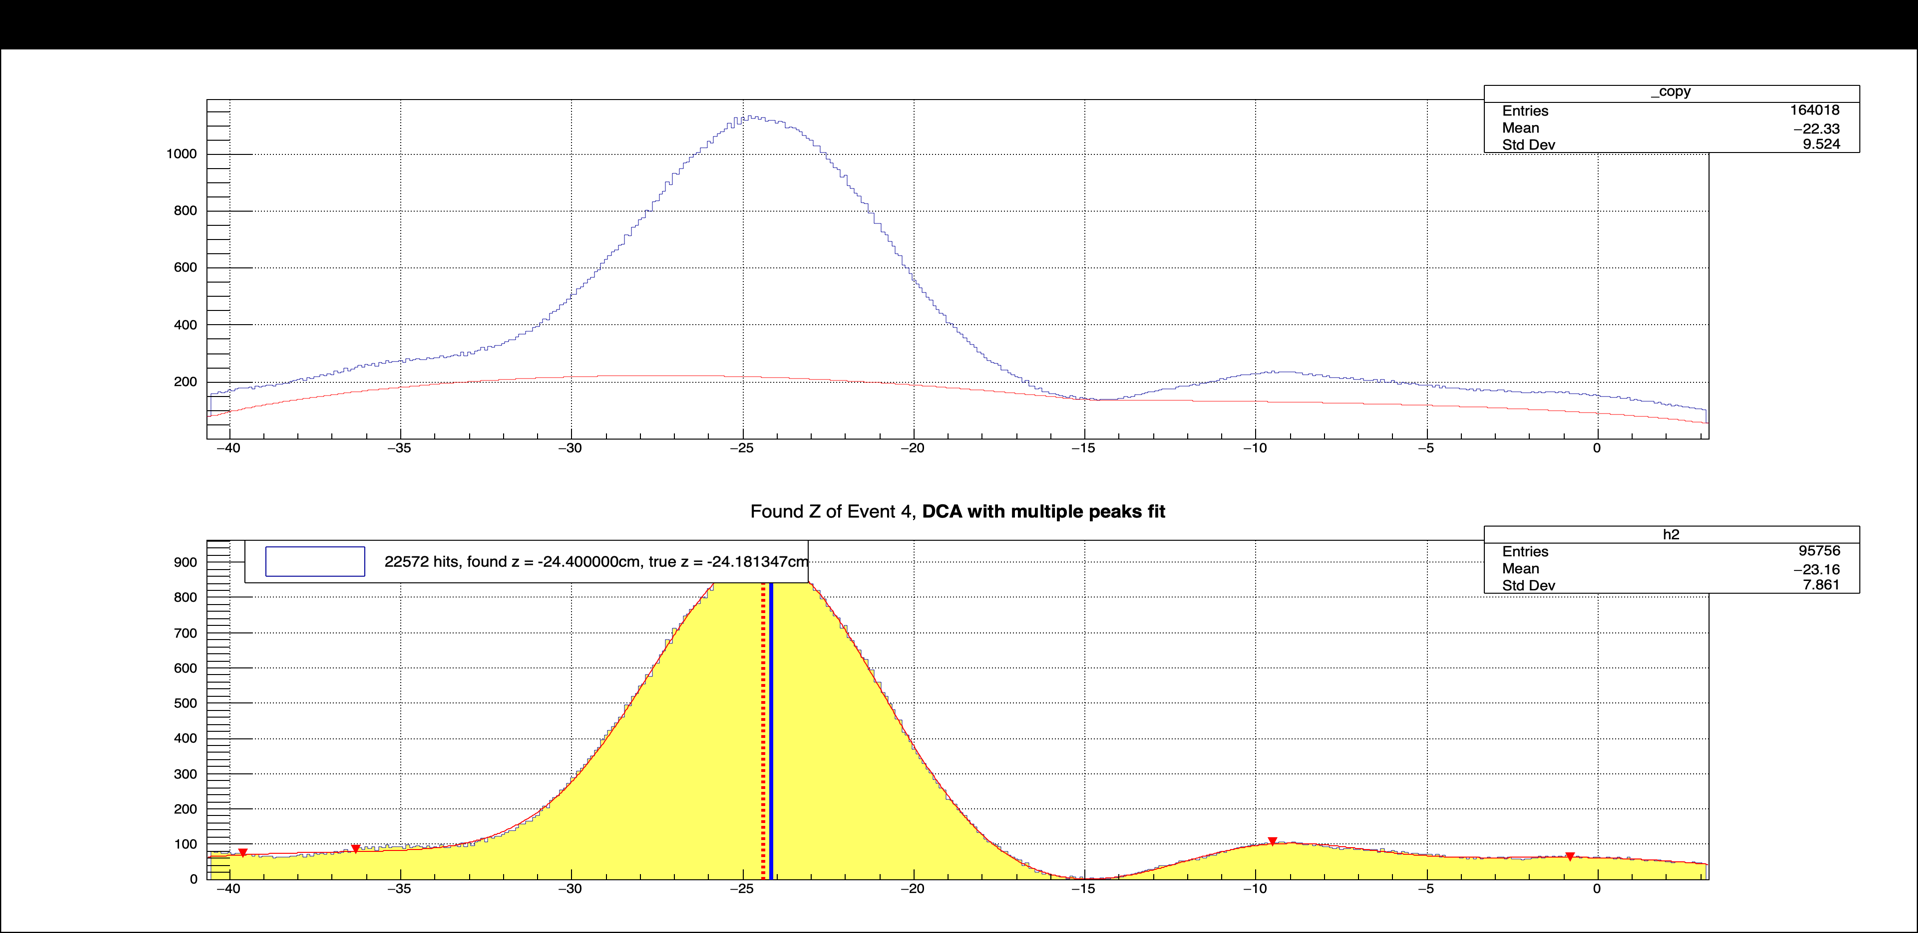
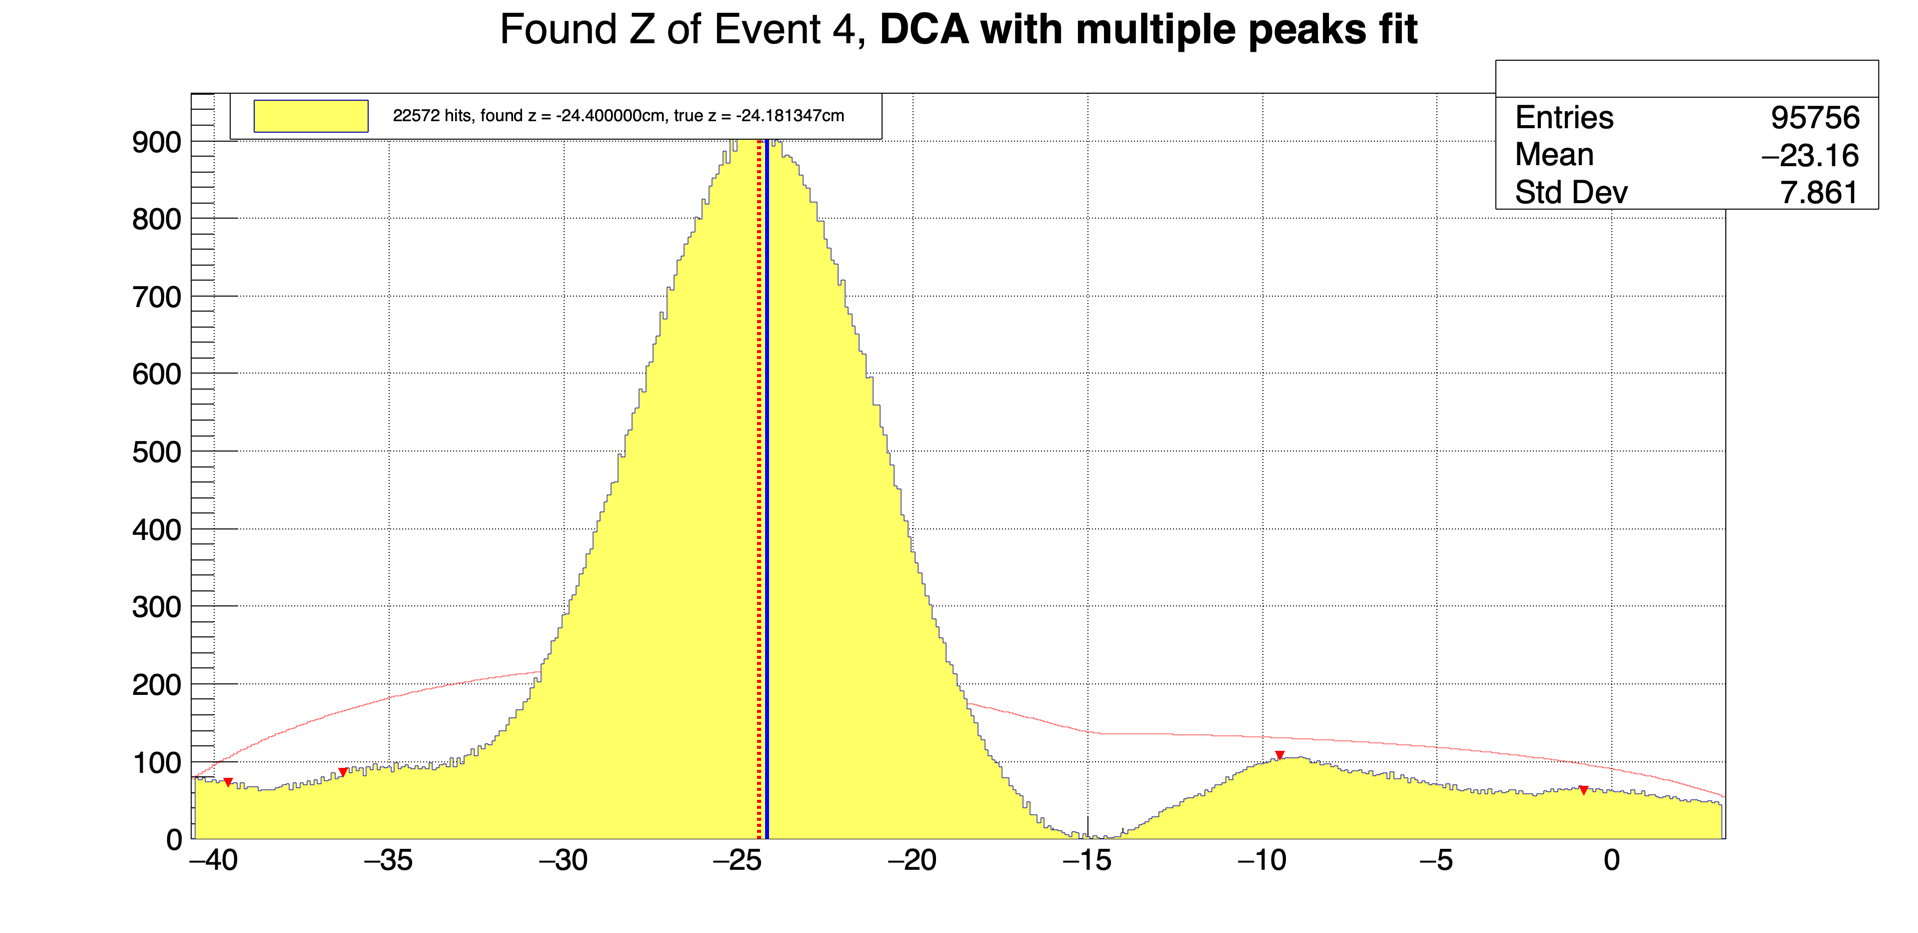
yaminocellist

diff --git a/headers/zFinding.h b/headers/zFinding.h
@@ -168,10 +168,43 @@ double DCA_npeaks (const int &evt, const std::vector<myTrackletMemberExtended> &
     xpeaks = s->GetPositionX();
     double ctz = xpeaks[0];
     if (gPad) gPad->SetGrid(1, 1);
-    h -> DrawCopy("");
+    // h -> DrawCopy("");
     bg -> Draw("SAME");
     c -> Update();
     // std::cout << std::fixed << std::setprecision(8) << ctz << std::endl;
+    h -> Draw("same");
+    h -> SetFillColor(kYellow - 7);
+    h -> SetLineWidth(1);
+    h -> SetFillStyle(1001);
+    h -> SetTitle(Form("Found Z of Event %d, #bf{DCA with multiple peaks fit}", evt));
+    static TLine *l1 = new TLine();
+    l1 -> SetLineColor(kRed);
+    l1 -> SetLineStyle(2);
+    l1 -> SetLineWidth(4);
+    static TLine *l2 = new TLine();
+    l2 -> SetLineColor(kBlue);
+    l2 -> SetLineStyle(1);
+    l2 -> SetLineWidth(4);
+    static TLegend *lg = new TLegend(0.12, 0.85, 0.46, 0.9);
+    lg -> AddEntry(h, Form("%lu hits, found z = %fcm, true z = %fcm", t0.size() + t1.size(), ctz, trueZ), "f");
+    lg -> SetTextSize(.02);
+    int max_entry = h -> GetBinContent(h -> FindBin(ctz));
+    // Update line positions and redraw
+    l1->SetX1(ctz); l1->SetX2(ctz);
+    l1->SetY1(0);   l1->SetY2(max_entry);
+    l1->Draw("same");
+    l2->SetX1(trueZ); l2->SetX2(trueZ);
+    l2->SetY1(0);     l2->SetY2(max_entry);
+    l2->Draw("same");
+
+    // Clear and update the legend for the current event
+    lg->Clear();
+    lg->AddEntry(h, Form("%lu hits, found z = %fcm, true z = %fcm", t0.size() + t1.size(), ctz, trueZ), "f");
+    lg->Draw("same");
+    gPad -> SetGrid(1,1); gPad -> Update();
+    c -> SaveAs(Form("zFindingPlots/DCA_npeaks_%d.png", evt));
+    delete c;   delete h;   delete bg;
+    h = 0;  bg = 0;
 
 
     /*
